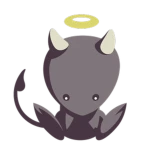
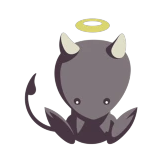
Show Nogo's profile picture, with the group's devil as a badge
- The creator cards on Game Information and Nogo now show Nogo's own
  profile picture (loaded from Discord). If it can't load, the light
  circle stays.
- The Nogo group's devil sits in a small badge in the corner. The icon
  is re-cut so the devil is exactly centered, with even margins, so it
  looks a little smaller and no longer touches the edges.

?v= in zensical.toml goes to 20261012-6.

Claude-Session: https://claude.ai/code/session_014EBHDT4hfdVdreJ4iw3poM

Changed region(s): [[0.08, 0.08, 0.8533, 0.96], [0.7467, 0.2933, 0.8267, 0.4533], [0.7733, 0.5333, 0.8, 0.56]]

diff --git a/docs/assets/stylesheets/game.css b/docs/assets/stylesheets/game.css
@@ -3110,18 +3110,27 @@ body {
   color: #fff;
 }
 
-/* the Nogo group's own icon, on a light circle so it shows on the dark card */
-.md-typeset .mp-creator__avatar--img {
-  overflow: hidden;
-  background: radial-gradient(circle at 50% 40%, #ffffff 0, #e4ecf7 70%, #c9d6e8 100%);
+/* Nogo's profile picture, with the Nogo group icon as a small badge in the
+   corner. If the picture can't load, the light circle stays. */
+.md-typeset .mp-creator__avatar--nogo {
+  position: relative;
+  background:
+    url("https://cdn.discordapp.com/avatars/322883679338627072/fb8153d8fef5d5d28c2cb3f8b7f01c1a.webp?size=256") center / cover no-repeat,
+    radial-gradient(circle at 50% 40%, #ffffff 0, #e4ecf7 70%, #c9d6e8 100%);
 }
 
-.md-typeset .mp-creator__avatar--img img {
-  display: block;
-  width: 100%;
-  height: 100%;
-  object-fit: contain;
-  transform: scale(1.18);
+.md-typeset .mp-creator__avatar--nogo::after {
+  content: "";
+  position: absolute;
+  right: -0.35rem;
+  bottom: -0.35rem;
+  width: 1.75rem;
+  height: 1.75rem;
+  border-radius: 50%;
+  border: 2px solid var(--mp-ink);
+  background: url("../images/nogo-group.webp") center / contain no-repeat,
+    radial-gradient(circle at 50% 40%, #ffffff 0, #dfe8f5 100%);
+  box-shadow: 0 2px 0 var(--mp-ink);
 }
 
 .md-typeset .mp-creator__avatar .twemoji,

diff --git a/docs/game-info/index.md b/docs/game-info/index.md
@@ -24,7 +24,7 @@ A month and a half later came the **18+ version**: a separate experience only fo
 ## The creator
 
 <div class="mp-creator" markdown>
-<div class="mp-creator__avatar mp-creator__avatar--img" markdown="span">![Nogo group icon](../assets/images/nogo-group.webp)</div>
+<div class="mp-creator__avatar mp-creator__avatar--nogo" role="img" aria-label="Nogo's profile picture, with the Nogo group icon"></div>
 <div class="mp-creator__body" markdown>
 <div class="mp-creator__name" markdown="span">Nogo <span class="mp-creator__chip">:lucide-badge-check: Verified group</span></div>
 

diff --git a/docs/game-info/nogo.md b/docs/game-info/nogo.md
@@ -6,7 +6,7 @@ description: "Who makes the game, and the other games by Nogo."
 # Nogo
 
 <div class="mp-creator" markdown>
-<div class="mp-creator__avatar mp-creator__avatar--img" markdown="span">![Nogo group icon](../assets/images/nogo-group.webp)</div>
+<div class="mp-creator__avatar mp-creator__avatar--nogo" role="img" aria-label="Nogo's profile picture, with the Nogo group icon"></div>
 <div class="mp-creator__body" markdown>
 <div class="mp-creator__name" markdown="span">Nogo <span class="mp-creator__chip">:lucide-badge-check: Verified group</span></div>
 
